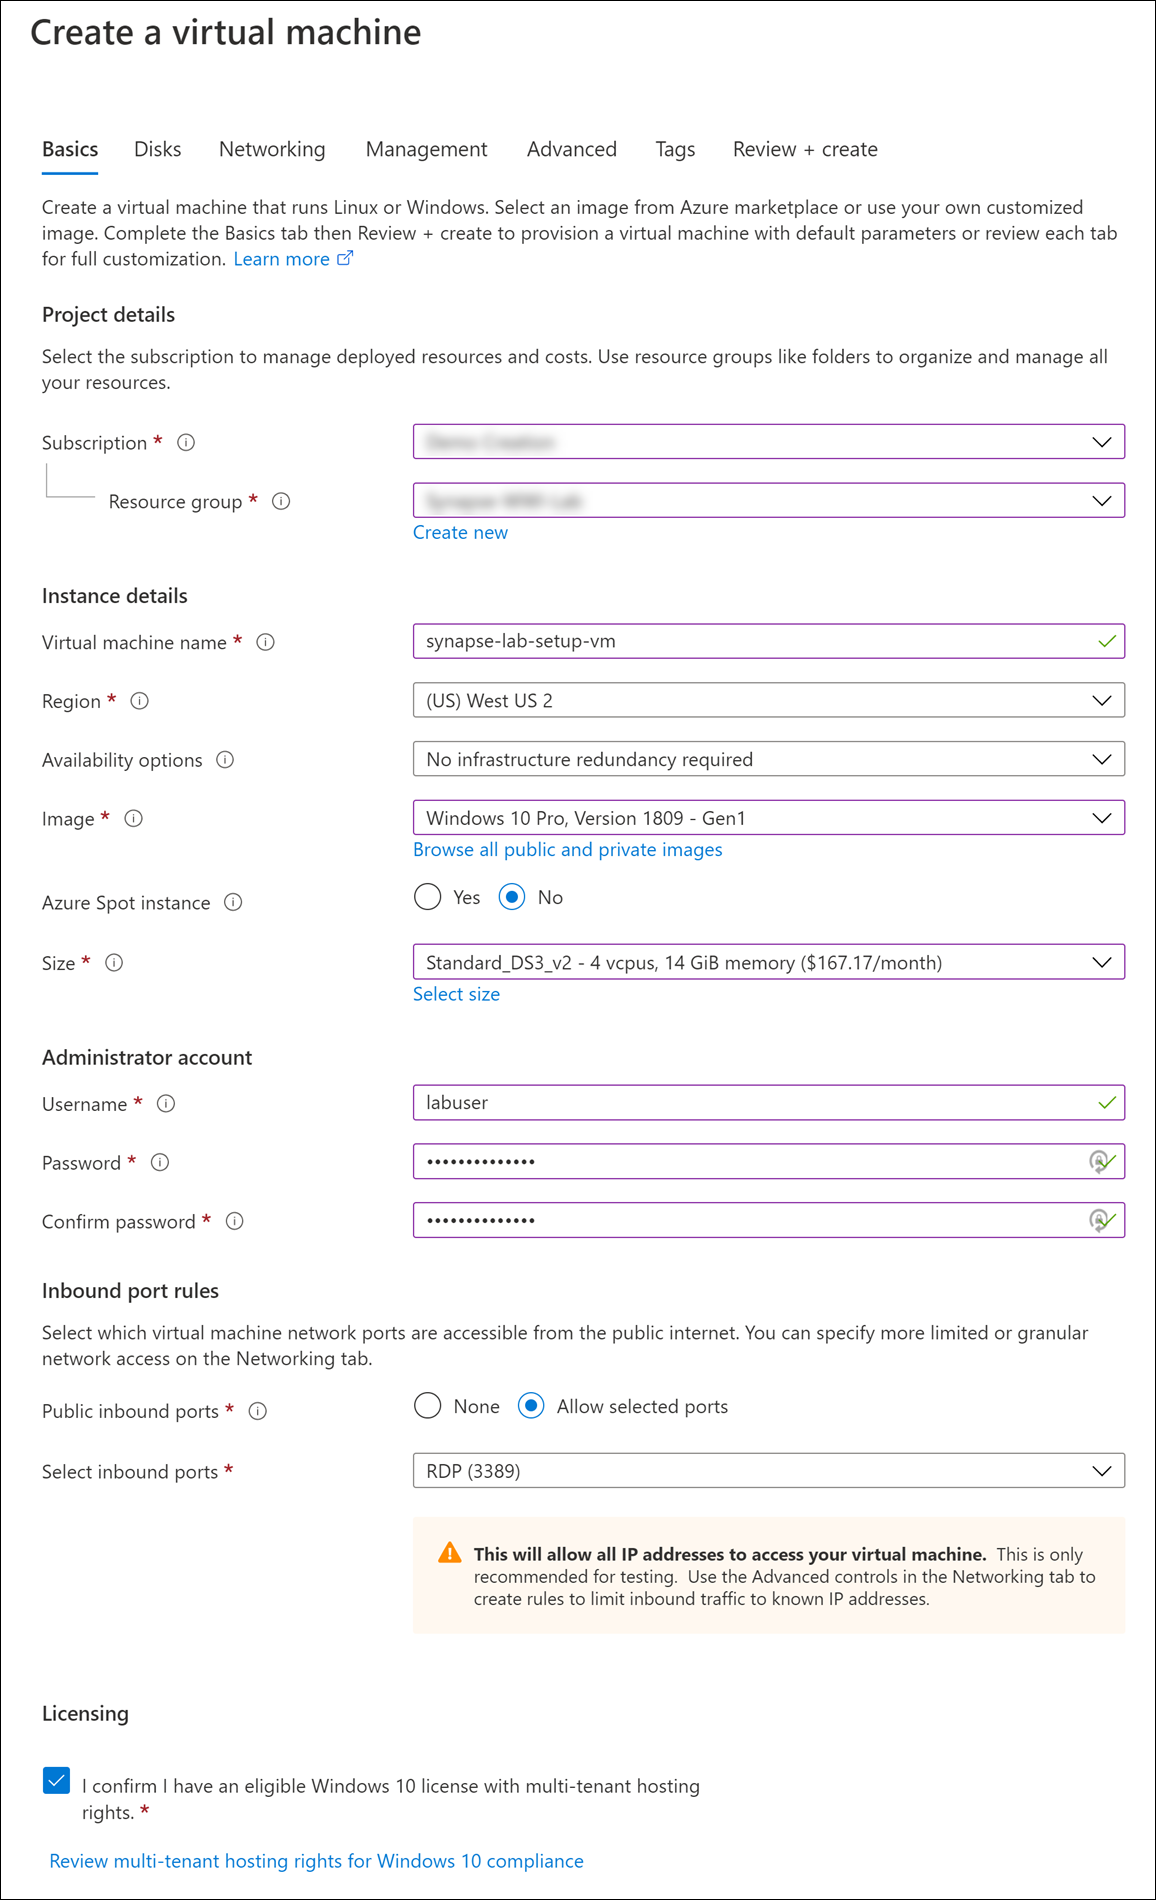
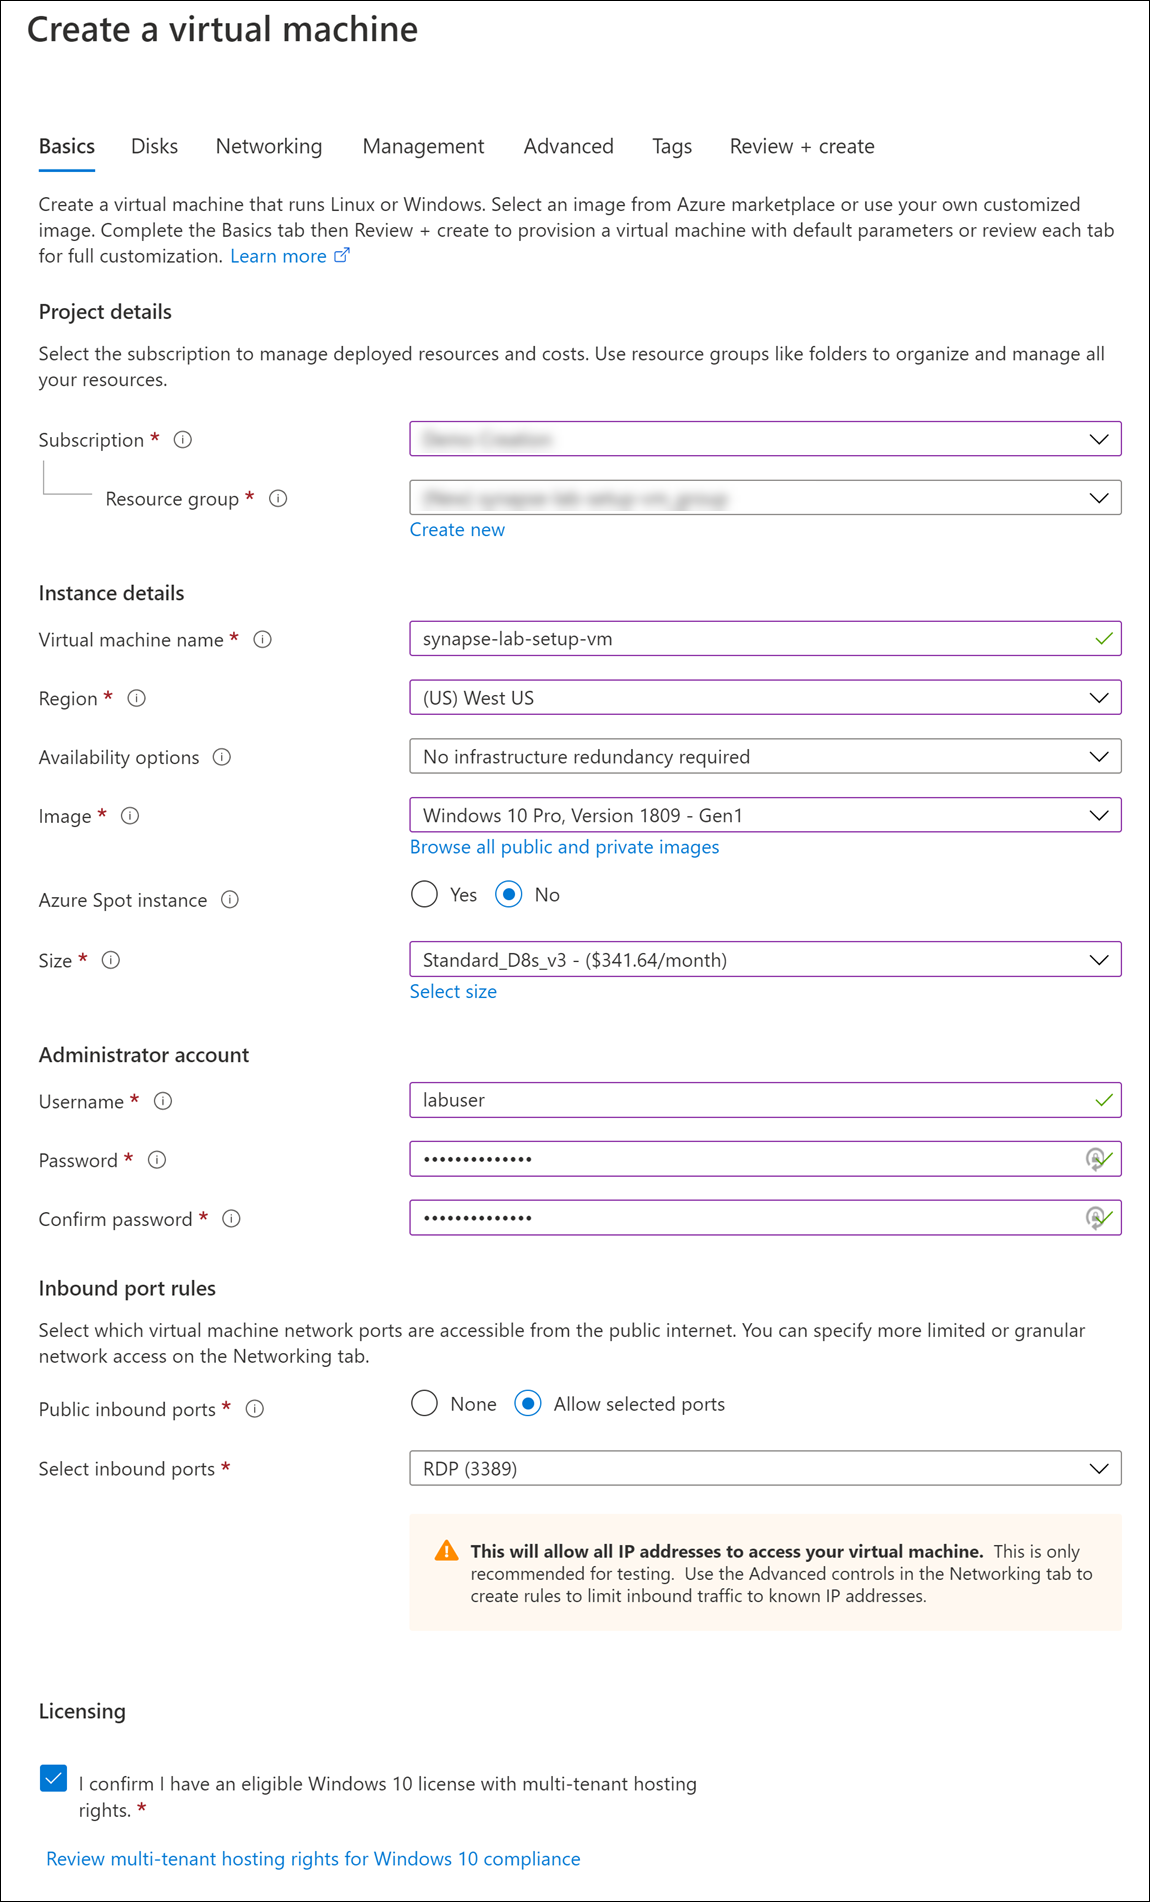
Update VM size for faster setup

diff --git a/README.md b/README.md
@@ -87,7 +87,7 @@ We highly recommend executing the PowerShell scripts on an Azure Virtual Machine
    | Availability options           | _select `No infrastructure redundancy required`_   |
    | Image                          | _select `Windows 10 Pro, Version 1809 - Gen1`_     |
    | Azure Spot instance            | _select `No`_                                      |
-   | Size                           | _select `Standard_DS3_v2`_                         |
+   | Size                           | _select `Standard_D8s_v3`_                         |
    | Username                       | _select `labuser`_                             |
    | Password                       | _enter a password you will remember_               |
    | Public inbound ports           | _select `Allow selected ports`_                    |
@@ -220,15 +220,16 @@ The entire script will take between 1.5 and 2 hours to complete. Major steps inc
 
 * Execute `Connect-AzAccount` and sign in to your Microsoft user account when prompted.
 * Execute `az login` and sign in to your Microsoft user account when prompted.
+
+    > If you receive the following error, and have already closed and re-opened the PowerShell window, you need to restart your computer and restart the steps in this task: `The term 'az' is not recognized as the name of a cmdlet, function, script file, or operable program`.
+
 * Execute `.\01-environment-setup.ps1`
 
 1. You will be prompted to setup your Azure PowerShell and Azure CLI context.
 
-2. You may be prompted to enter the name of your desired Azure Subscription. You can copy and paste the value from the list to select one. **Note**: Be certain to include the number next to the subscription name when you copy it.
+2. You may be prompted to enter the name of your desired Azure Subscription. You can copy and paste the value from the list to select one.
 
-    Select the resource group you selected during Task 2.2. This will make sure automation runs against the correct environment you provisioned in Azure.
-
-    ![The Azure Cloud Shell window is displayed with a selection of resource groups the user owns.](media/setup-resource-group-selection.png)
+3. Enter the name of the resource group you created at the beginning of the environment setup (such as `synapse-in-a-day-demos`). This will make sure automation runs against the correct environment you provisioned in Azure.
 
     During the execution of the automation script you may be prompted to approve installations from PS-Gallery. Please approve to proceed with the automation.
 
